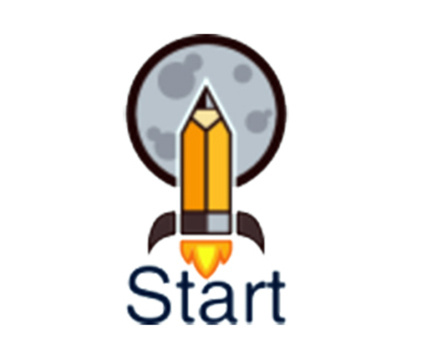
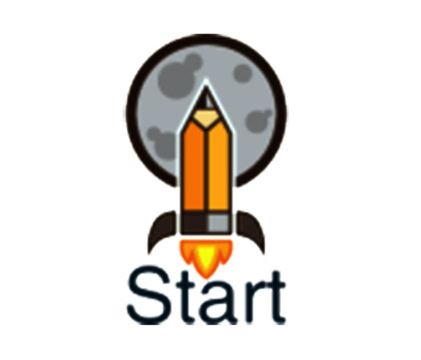
fix view home

Changed region(s): [[0.2779, 0.0917, 0.7102, 0.9167]]

diff --git a/public/assets/home/css/main.css b/public/assets/home/css/main.css
@@ -2459,7 +2459,7 @@
 			position: absolute;
 			left: 0;
 			top: 0;
-			background-image: url("images/fundo1.png");
+			background-image: url("images/screenshot107.png");
 			width: 100%;
 			height: 100%;
 			z-index: 1;
@@ -3393,11 +3393,11 @@
 
 			#banner .content .image {
 				border-radius: 100%;
-				display: inline-block;
-				height: 18em;
+				display: inline-flex;
+				height: 17em;
 				margin-left: 3em;
 				vertical-align: middle;
-				width: 18em;
+				width: 17em;
 			}
 
 				#banner .content .image img {

diff --git a/App/Providers/StartProvider.php b/App/Providers/StartProvider.php
@@ -17,6 +17,7 @@ class StartProvider extends ServiceProvider
 
     public function mapRoutes()
     {
+        //injetar rotas
         Router::get(['route' => '/',        'namespace' => $this->namespace,'controller' => 'HomeController','action' => 'index']);
         Router::get(['route' => '/contact', 'namespace' => $this->namespace,'controller' => 'HomeController','action' => 'contact']);
     }
@@ -26,6 +27,7 @@ class StartProvider extends ServiceProvider
      */
     public function userRoutes()
     {
+        //passar arquivos de rotas
         include __DIR__.'/../routes/user.php';
     }
     

diff --git a/App/Controllers/Auth/AuthController.php b/App/Controllers/Auth/AuthController.php
@@ -1,9 +1,9 @@
 <?php
 namespace App\Controllers\Auth;
 
-use Cac\Auth\Auth;
+use Cac\Auth\Authentication\Authenticate;
 
-class AuthController extends Auth
+class AuthController extends Authenticate
 {
     public function __construct()
     {
@@ -19,4 +19,7 @@ class AuthController extends Auth
     {
         echo $this->render('auth.register');
     }
+
+
+
 }
